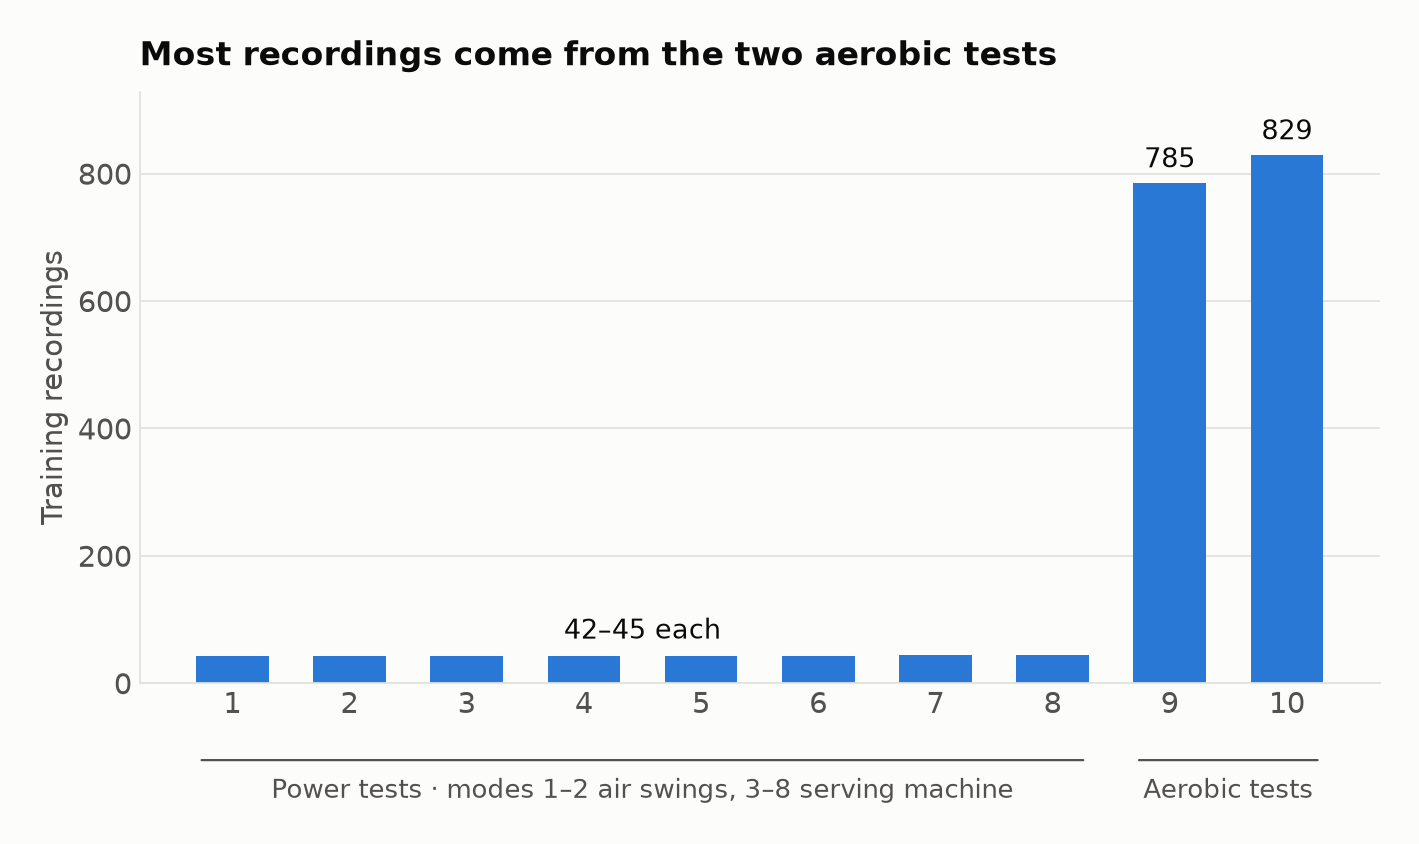
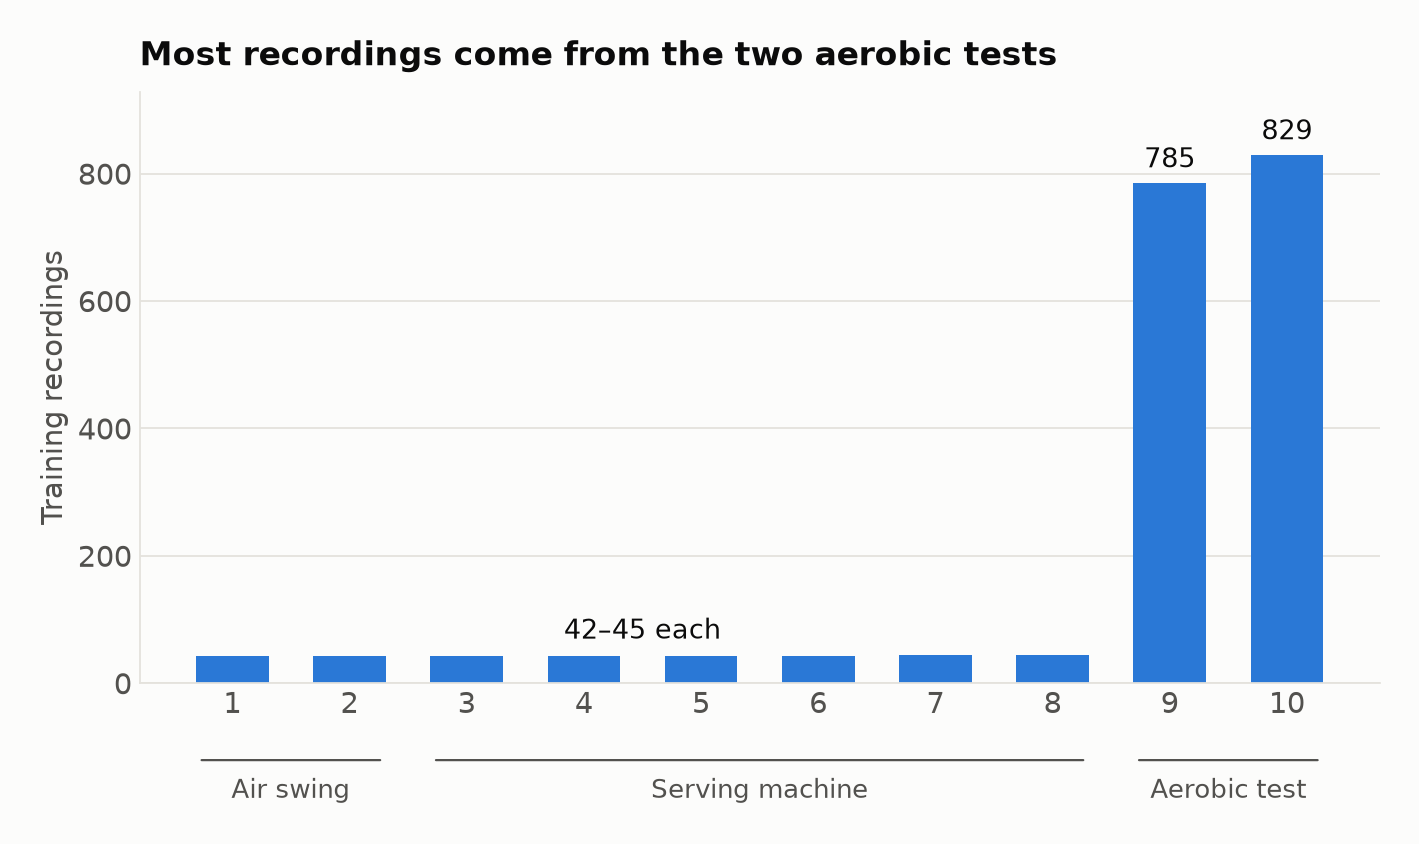
Update README: terminology, honest evaluation notes, handedness observation
- Title and target names follow the competition (handedness, college Division I/II, mode types)
- Variance filter is fitted on all training rows; Optuna sampler is unseeded
- Add per-fold minority-class table and the mean-Gy handedness figure
- Redraw modes figure with the organizer's three mode groups

Changed region(s): [[0.155, 0.8934, 0.7132, 0.955], [0.8062, 0.9242, 0.9302, 0.955]]

diff --git a/README.md b/README.md
@@ -1,17 +1,18 @@
-# AI CUP 2025 Spring — Smart Racket Table Tennis Classification
+# 2025 AI CUP: Precise Analysis of Table Tennis Smart Racket Data
 
 [![AI CUP 2025 Spring](https://img.shields.io/badge/AI%20CUP-2025%20Spring-orange.svg)](https://tbrain.trendmicro.com.tw/Competitions/Details/39)
 [![Python 3.12](https://img.shields.io/badge/python-3.12-blue.svg)](requirements.txt)
 [![CatBoost GPU](https://img.shields.io/badge/model-CatBoost%20GPU-yellow.svg)](https://catboost.ai)
 
-Predicting a table-tennis player's gender, racket hand, years of play and competitive level from the
-six-axis motion sensor inside a smart racket. The whole pipeline lives in one notebook,
+Predicting a table-tennis player's gender, handedness, play years and level from the six-axis motion sensor
+inside a smart racket. The whole pipeline lives in one notebook,
 [`aicup_submission.ipynb`](aicup_submission.ipynb).
 
 **Highlights**
 
 - **Player-grouped validation.** Every attribute is constant per player, so folds are split by player.
-- **No leakage.** Feature selection, imputation and scaling are fitted on training folds only.
+- **Fold-local fitting.** `SelectKBest`, imputation and scaling are fitted on training folds only; only the
+  label-free variance filter sees all training rows.
 - **Rich features.** TSFEL temporal, spectral and statistical features, summarized over each test session.
 - **Per-target tuning.** Four CatBoost models, each with its own features and Optuna-tuned settings.
 
@@ -88,11 +89,11 @@ equally spaced indices over the whole recording.
 
 ![Training recordings per mode](docs/figures/modes.png)
 
-| Mode | Test | What the player does |
+| Mode | Type | What the player does |
 | --- | --- | --- |
-| 1–2 | Power | Forehand stroke or loop, swinging in the air, 27 times |
-| 3–8 | Power | 27 precise forehand hits from a serving machine at 50 balls/min, from different positions and directions |
-| 9–10 | Aerobic | Ball frequency rises until exhaustion, so a file may end before 27 swings |
+| 1–2 | Air swing | Forehand stroke or loop, swinging in the air, 27 times |
+| 3–8 | Serving machine | 27 precise forehand hits from a serving machine at 50 balls/min, from different positions and directions |
+| 9–10 | Aerobic test | Ball frequency rises until exhaustion, so a file may end before 27 swings |
 
 The training set has 1,955 recordings from 42 players; modes 9–10 make up 1,614 of them. The test set has
 1,430 recordings.
@@ -100,9 +101,20 @@ The training set has 1,955 recordings from 42 players; modes 9–10 make up 1,61
 | Target | Classes |
 | --- | --- |
 | Gender | 1, 2 |
-| Racket hand | 1, 2 |
-| Play years | 0 low · 1 medium · 2 high |
-| Level | 2 college Division A · 3 college Division B · 4 youth national team · 5 youth players |
+| Handedness (`hold racket handed`) | 1 right · 2 left |
+| Play years | 0 low · 1 mid · 2 high (bins set by the organizer) |
+| Level | 2 college Division I · 3 college Division II · 4 youth national team · 5 youth players |
+
+Every label is constant within a player, so the effective sample size is 42 players, not 1,955 recordings.
+Counted in players, the smallest classes are small: 3 youth national team, 5 college Division II,
+7 left-handed, and 8 each for gender class 2 and low play years.
+
+**Handedness shows in one channel.** Averaged over each player's recordings, the angular velocity about the
+racket's Y axis (Gy) is positive for all 35 right-handed players and negative for all 7 left-handed players.
+On single recordings this one number separates the two hands with an ROC AUC of 0.997, which is why
+handedness is the easy target and skips `SelectKBest`.
+
+![Mean Gy per player by handedness](docs/figures/handedness.png)
 
 ## Model overview
 
@@ -110,9 +122,10 @@ The training set has 1,955 recordings from 42 players; modes 9–10 make up 1,61
 because their column names depend on window length and would leave most values empty. When a feature
 fails on a very short window (an aerobic test stopped early), only that feature is skipped.
 
-**Selection.** A variance threshold (0.01) removes near-constant columns without using labels. For gender,
-play years and level, `SelectKBest` then keeps the top-k features, fitted on each fold's training rows
-with k tuned by Optuna. Racket hand uses all remaining features.
+**Selection.** `VarianceThreshold(0.01)` removes near-constant columns without using labels; it is fitted
+once on all training rows. For gender, play years and level, `SelectKBest` (ANOVA F) then keeps the top-k
+features, fitted on each fold's training rows with k tuned by Optuna. Handedness uses all remaining
+features.
 
 **Model.** One `CatBoostClassifier` per target on GPU, after KNN imputation and min-max scaling. Optuna
 tunes the tree settings, k, optional input noise and class weighting (75 trials per target). The final
@@ -142,13 +155,27 @@ from cross-validation.
 ## Evaluation protocol
 
 - **5-fold `GroupKFold` by player**, so no player appears in both training and validation.
-- **Fold-local fitting** for every step that learns from data: selection, imputation and scaling.
-- **Metric:** ROC AUC for gender and racket hand, micro one-vs-rest ROC AUC for play years and level,
+- **Fold-local fitting** for `SelectKBest`, imputation and scaling. The label-free variance filter is the
+  one step fitted on all training rows.
+- **Metric:** ROC AUC for gender and handedness, micro one-vs-rest ROC AUC for play years and level,
   averaged over the four targets.
-- **Search budget:** Optuna prunes weak trials after each fold; each target's search is capped at 2.5 hours.
+- **Search budget:** Optuna's `MedianPruner` stops weak trials after each fold; each target's search has a
+  2.5-hour timeout.
 
-The best Optuna trial is chosen on the same folds it is scored on, so its cross-validation score is
-somewhat optimistic; confirming it needs a fresh player split.
+The best Optuna trial is chosen on the same folds it is scored on, and those folds also drive early
+stopping, so its cross-validation score is somewhat optimistic; confirming it needs a fresh player split.
+The Optuna sampler is not seeded, so a rerun can pick different trials.
+
+**Minority classes per validation fold.** `GroupKFold` keeps players apart but balances recordings, not
+classes. Some folds contain no player of a minority class; a binary fold without one has no defined AUC
+and drops out of the fold average (one fold for gender, two for handedness).
+
+| Minority-class players | F1 | F2 | F3 | F4 | F5 |
+| --- | --- | --- | --- | --- | --- |
+| Gender: class 2 | 2 | **0** | 2 | 3 | 1 |
+| Left-handed | **0** | 2 | 3 | **0** | 2 |
+| Play years: low | 1 | **0** | **0** | 3 | 4 |
+| Level: youth national team | **0** | 2 | **0** | **0** | 1 |
 
 <details>
 <summary><b>Configuration constants</b></summary>
@@ -187,7 +214,8 @@ submission_catboost_tsfel_gpu_v7.csv               submission file
 | The 27 windows are equally spaced (as is `cut_point`), so they include the quiet start and wind-down and drift against real swings | Detect swings in the signal, e.g. from peaks of the smoothed gyroscope magnitude |
 | The gyroscope saturates at ±32,768 during fast swings, clipping peak rotation speed | Add saturation-aware features, such as the share of clipped samples |
 | The swing mode is not used, although air swings, machine-fed hits and aerobic tests differ | Condition on `mode` |
-| One 5-fold split over 42 players, no uncertainty estimate | Nested, repeated player-grouped CV |
+| One 5-fold split over 42 players, some folds without a minority-class player, no uncertainty estimate | `StratifiedGroupKFold`, nested and repeated |
+| The Optuna sampler is not seeded | Seed the TPE sampler |
 | Swings are summarized before modeling | Model each swing and pool predictions per recording |
 
 ## Data & license
